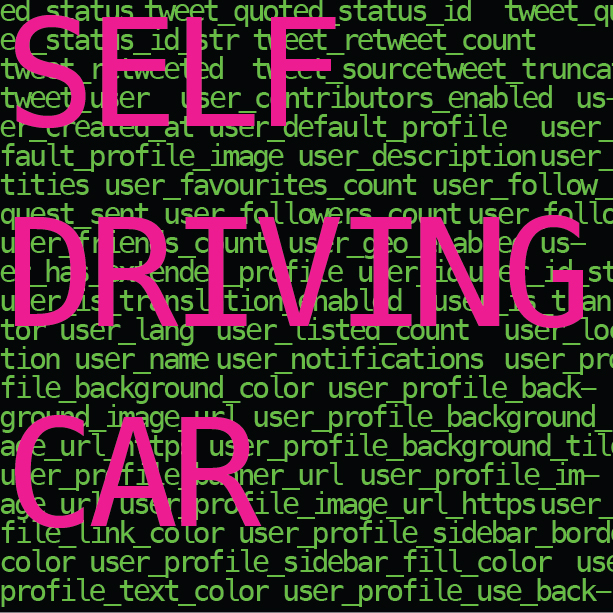
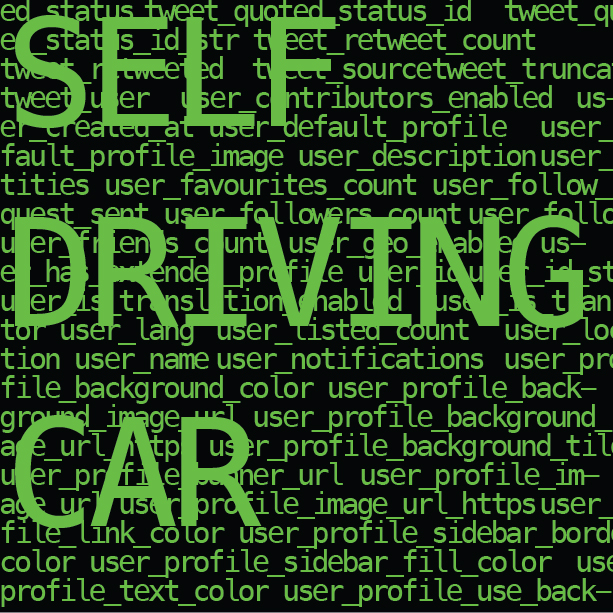
change color

Changed region(s): [[0.0, 0.3409, 0.9608, 0.5579], [0.0, 0.0, 0.5579, 0.217], [0.0, 0.6509, 0.4339, 0.8679]]

diff --git a/index.html b/index.html
@@ -182,6 +182,8 @@
                         $("#introduction").html("You must be frastrated now so you quit. However, this is daily life of data scientists. They swim among the data, build models to train the machine. However, the process is just like a black hole. When they fail, they don't know why they fail. There is no way to know know how to improve the accuracy or model. They just live in the black box day by day, guessing and trying, until things work.")
 
                     } else {
+                        console.log("hi")
+                        $("#introduction").css("color","#ed2991")
                         $("#introduction").html("if you like it, share link with your friends!")
                     }
                 }
